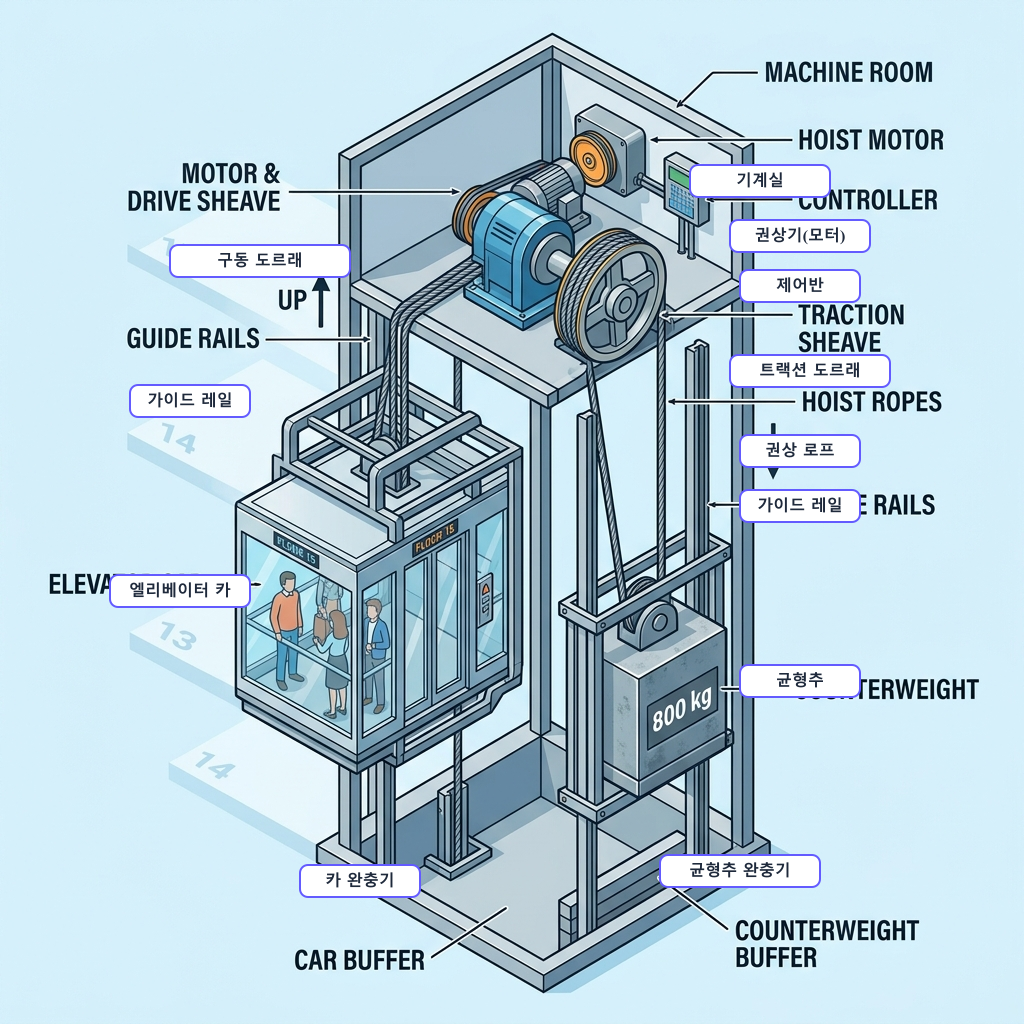
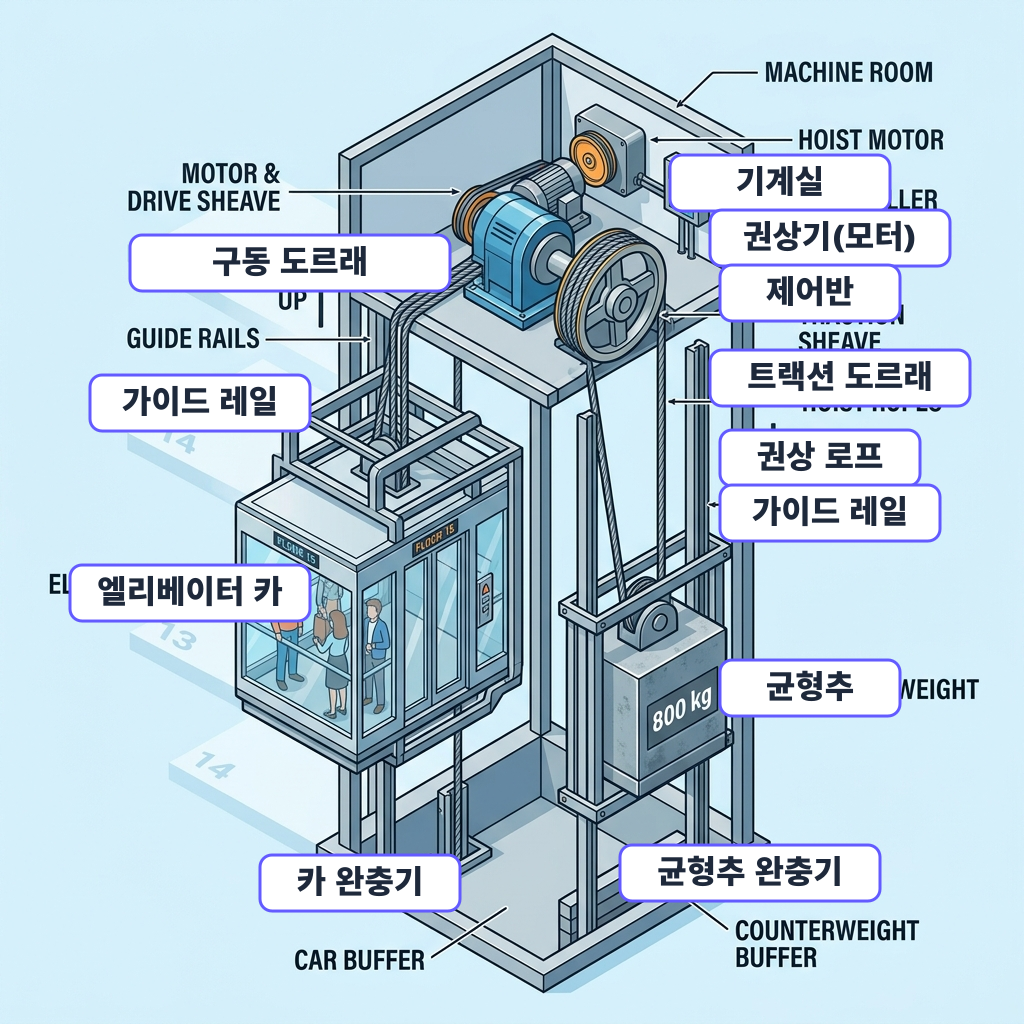
style: enhance UI feedback for translated text size and back button press

diff --git a/client/translate_image.js b/client/translate_image.js
@@ -1,0 +1,44 @@
+const sharp = require('sharp');
+
+const labels = [
+  { x: 670, y: 155, w: 220, text: "기계실" },
+  { x: 710, y: 210, w: 240, text: "권상기(모터)" },
+  { x: 720, y: 265, w: 180, text: "제어반" },
+  { x: 710, y: 350, w: 260, text: "트랙션 도르래" },
+  { x: 720, y: 430, w: 200, text: "권상 로프" },
+  { x: 720, y: 485, w: 220, text: "가이드 레일" },
+  { x: 720, y: 660, w: 180, text: "균형추" },
+  { x: 620, y: 845, w: 260, text: "균형추 완충기" },
+  { x: 260, y: 855, w: 200, text: "카 완충기" },
+  { x: 70, y: 565, w: 240, text: "엘리베이터 카" },
+  { x: 90, y: 375, w: 220, text: "가이드 레일" },
+  { x: 130, y: 235, w: 320, text: "구동 도르래" }
+];
+
+let svgs = labels.map(l => `
+  <g transform="translate(${l.x}, ${l.y})">
+    <rect width="${l.w}" height="56" rx="12" fill="#ffffff" stroke="#635bff" stroke-width="3"/>
+    <text x="${l.w / 2}" y="38" font-family="sans-serif" font-weight="900" font-size="32px" fill="#1e293b" text-anchor="middle">${l.text}</text>
+  </g>
+`).join('');
+
+const svg = `
+<svg width="1024" height="1024">
+  ${svgs}
+</svg>
+`;
+
+sharp('e:/DugiGo/client/public/summaries/승강기기능사/set2_slide_1.png')
+  .composite([{
+    input: Buffer.from(svg),
+    top: 0,
+    left: 0
+  }])
+  .toFile('e:/DugiGo/client/public/summaries/승강기기능사/set2_slide_1_ko.png')
+  .then(() => {
+    console.log('Successfully generated Korean annotated image!');
+    // overwrite original
+    const fs = require('fs');
+    fs.renameSync('e:/DugiGo/client/public/summaries/승강기기능사/set2_slide_1_ko.png', 'e:/DugiGo/client/public/summaries/승강기기능사/set2_slide_1.png');
+  })
+  .catch(console.error);

diff --git a/client/src/app/study/[subject]/StudyClient.tsx b/client/src/app/study/[subject]/StudyClient.tsx
@@ -404,7 +404,7 @@ export function StudyContent({ searchParamsProps }: { searchParamsProps: any }) 
     <div className="min-h-screen relative flex flex-col text-slate-800">
       <div className="mesh-bg" />
       <nav className="sticky top-0 z-50 px-4 py-2 glass-card border-none bg-white/40 backdrop-blur-md flex justify-between items-center h-12 md:h-20 md:px-8 md:py-4">
-        <button onClick={() => router.push(`/select-unit/${params.subject}`)} className="w-8 h-8 md:w-10 md:h-10 flex items-center justify-center bg-white/50 rounded-xl hover:bg-white transition-all text-slate-600 shadow-sm"><ChevronLeft size={16} /></button>
+        <button onClick={() => router.push(`/select-unit/${params.subject}`)} className="w-8 h-8 md:w-10 md:h-10 flex items-center justify-center bg-white/50 rounded-xl hover:bg-white active:scale-90 active:bg-brand-50 transition-all text-slate-600 shadow-sm"><ChevronLeft size={16} /></button>
         <div className="flex items-center gap-4 md:gap-10">
           <span className="text-xs md:text-lg font-black tracking-[0.05em] text-brand-600 uppercase">{unitFilter ? `${unitFilter}${setNum ? ` · 세트 ${setNum}` : ''}` : `${subject} 기출학습`}</span>
           <div className="hidden md:block w-px h-6 bg-slate-200" />
